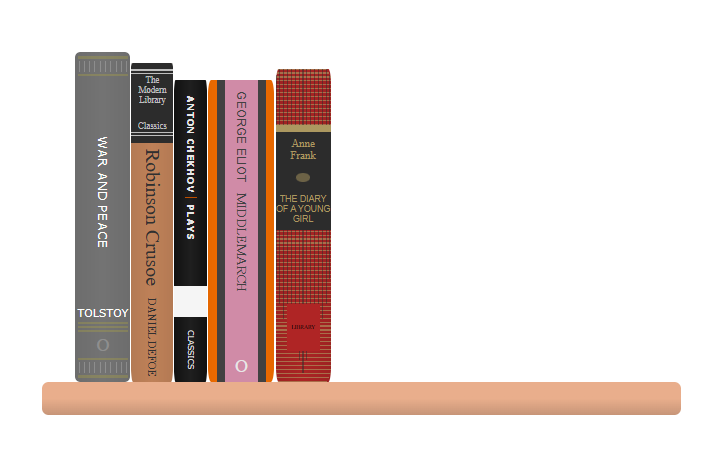
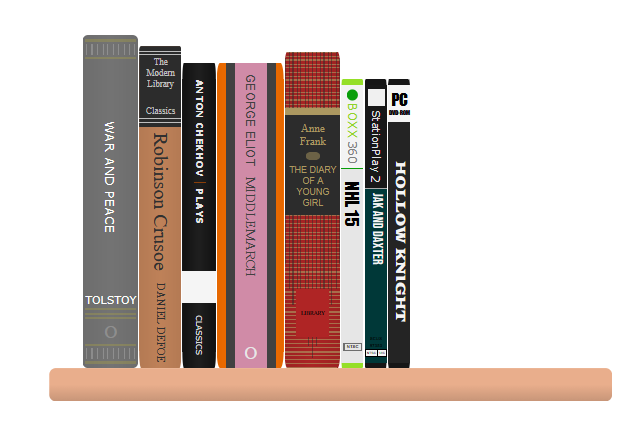
updated readme, added font

diff --git a/styles.css b/styles.css
@@ -1,3 +1,6 @@
+/*-------IMPORTS --------------*/
+@import url('https://fonts.googleapis.com/css2?family=Bebas+Neue&family=Goblin+One&display=swap');
+
 * {
     padding: 0;
     margin: 0;
@@ -600,7 +603,7 @@
     writing-mode: vertical-rl;
     text-orientation: mixed;
     font-size: 13px;
-    font-family: Cambria, Cochin, Georgia, Times, 'Times New Roman', serif;
+    font-family: "Bebas Neue", sans-serif;
     margin: auto;
     color: whitesmoke;
 }
@@ -673,11 +676,10 @@
     writing-mode: vertical-rl;
     text-orientation: mixed;
     text-align: center;
-    text-transform: capitalize;
+    text-transform: uppercase;
     margin: auto;
     height: 75%;
     width: fit-content;
-    font-size: 14px;
-    font-family: Arial, Helvetica, sans-serif;
-
+    font-size: 12px;
+    font-family: "Goblin One", serif;
 }

diff --git a/README.md b/README.md
@@ -1,6 +1,6 @@
 ## Book Design Test Area
 
-This is a separate space for me to test new designs for The Media Journal ([https:donikasnotebook.com/](https://donikasnotebook.com/media-journal/media-journal.html)). Pure HTML and CSS. Probably hacked together. May need simplification in the future.
+This is a separate space for me to test new designs for The Media Journal ([https://donikasnotebook.com/](https://donikasnotebook.com/media-journal/media-journal.html)). Pure HTML and CSS. Mostly hacked together. May need revision and simplification in the future.
 
 ## Current Designs:
 
